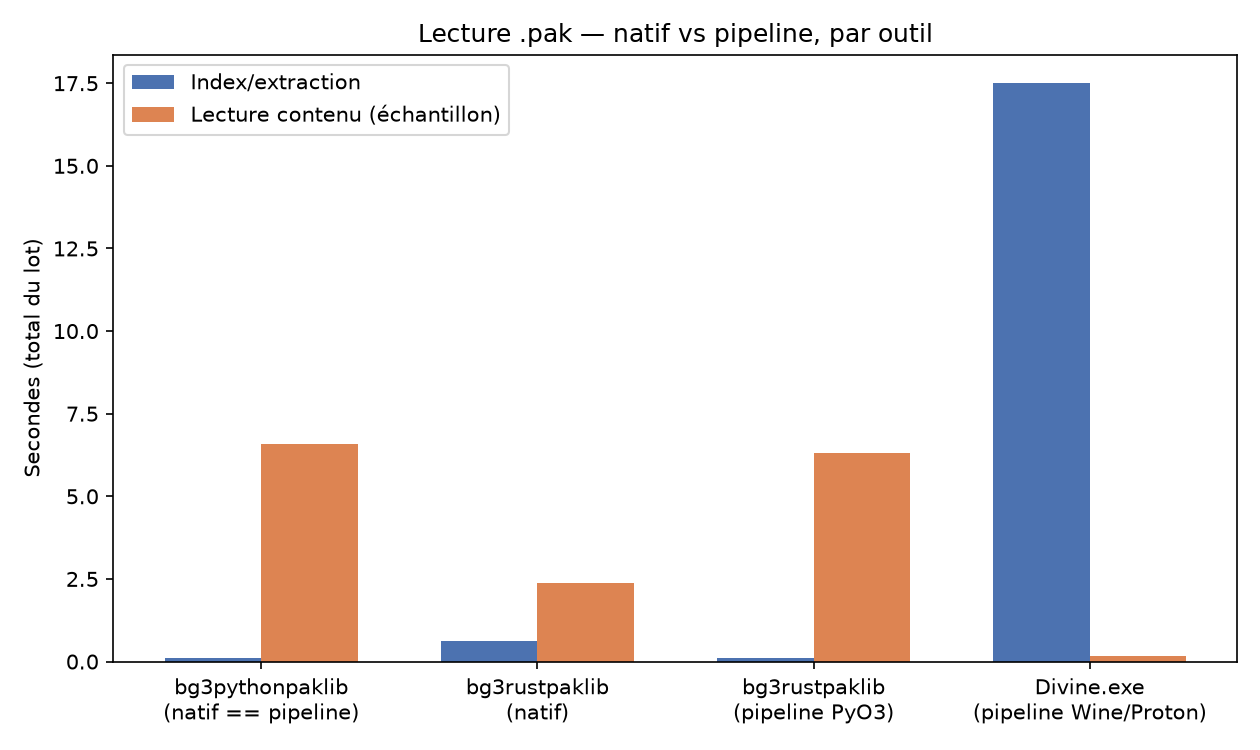
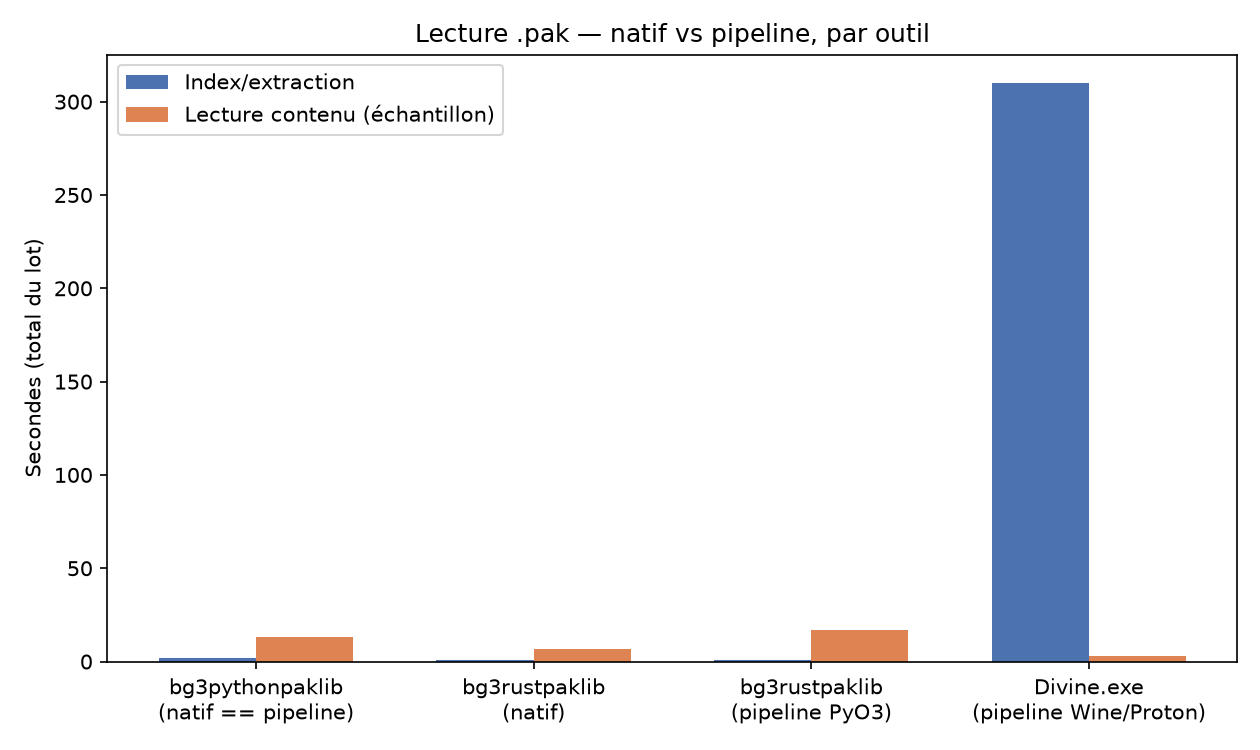
feat: bench batch complet (253 vrais .pak) + Divine.exe complété + dashboard republié
Bench de lecture étendu aux 253 vrais .pak (48 jeu de base + 205 mods
actifs) demandé par l'utilisateur : rapports canoniques
{python,rust,rust-native}_report.json fusionnés (le loader de
report.py ne lit que ces noms précis, pas les fichiers séparés
_data/_mods générés précédemment).

Divine.exe : Wine localisé via le bon préfixe Proton
(resolve_wine_bin(find_proton_prefix(...)), pas appdata_path
directement). Mode batch (extract-packages) : deux bugs trouvés,
-u -> --use-package-name (flag inexistant, corrigé dans
compare_pak_reader.py), puis crash CLR upstream dans
Divine.exe/LSLib (GetResourceFormatByString ne gère pas -i pak en
mode batch) — pas corrigeable côté script, documenté comme
limitation. Mode per-file relancé sur les 48 fichiers du jeu de
base : 42/48 réussis, 6 échecs réels (timeouts + crashs probables
OOM sur les plus gros fichiers).

docs/pak-tools-benchmark/pak_tools_benchmark.md reconstruit avec les
chiffres complets (regen via pak_bench_cli.py report écrase les
annotations manuelles à chaque fois, documenté dans TODO.md pour la
prochaine fois). Dashboard interactif republié à la même URL avec les
données complètes (texte de la note Divine.exe aussi corrigé, il
décrivait encore un run partiel).

.claude/TODO.md §22e.

diff --git a/scripts/pak_bench/export_dashboard_data.py b/scripts/pak_bench/export_dashboard_data.py
@@ -143,17 +143,22 @@ def build_divine_incomplete_status(reports_dir: Path) -> dict[str, Any]:
         )
     return {
         "note": (
-            "La série 'Divine.exe' du dashboard vient de divine_data_report.json "
-            "(run le plus complet et 100% réussi au moment de cet export — "
-            "voir son 'generated_at' et son nombre de fichiers dans "
-            "read_summary ; le fichier est écrit de façon incrémentale, donc "
-            "ce nombre peut être encore partiel si le run tournait encore à "
-            "l'instant précis de l'export). Une tentative antérieure sur 328 "
-            "fichiers (mods, divine_batch_report.json, 2026-09-10) avait "
-            "échoué à 100% sur le même bug de flag -u que le premier essai "
-            "'data' du jour — corrigé depuis, d'où le run 'data' actuel qui "
-            "réussit. Listée ici pour traçabilité, pas mélangée aux chiffres "
-            "de succès."
+            "La série 'Divine.exe' du dashboard vient de divine_data_report.json : "
+            "run complet (mode per-file, un lancement Wine par .pak) sur les 48 "
+            "fichiers du jeu de base, 42 réussis / 6 en échec — 3 timeouts "
+            "(Materials.pak, Models.pak, SharedSounds.pak) et 3 crashs sans "
+            "message exploitable (Gustav.pak, Textures.pak, VirtualTextures.pak, "
+            "probablement OOM sur les plus gros fichiers/archives multi-parties). "
+            "Les 205 .pak de mods n'ont PAS été passés par Divine.exe cette passe "
+            "(mode per-file trop lent à l'échelle — ~15 min pour 48 fichiers déjà "
+            "— et le mode batch natif de Divine.exe/LSLib plante systématiquement "
+            "sur '-i pak', un bug upstream dans CommandLineArguments."
+            "GetResourceFormatByString qui ne gère pas ce format, pas corrigeable "
+            "côté script). Une tentative antérieure sur 328 fichiers "
+            "(divine_batch_report.json, 2026-09-10) avait échoué à 100% sur un "
+            "bug de flag -u distinct (corrigé depuis, cf. commit dans "
+            "scripts/compare_pak_reader.py) — listée ici pour traçabilité, pas "
+            "mélangée aux chiffres de succès."
         ),
         "attempts": attempts,
     }

diff --git a/docs/pak-tools-benchmark/pak_tools_benchmark.md b/docs/pak-tools-benchmark/pak_tools_benchmark.md
@@ -17,22 +17,47 @@ Généré par `scripts/pak_bench_cli.py report`. Méthodologie : chaque outil es
 Les cases "Non" ne sont pas mesurées en perf — juste actées comme écart
 fonctionnel, avec pointeur vers `.claude/TODO.md` §1f-1i.
 
-
 ## Lecture (single + batch)
+
+253 vrais `.pak` du jeu : 48 du jeu de base (`Data/`) + 205 de mods actifs
+(`Mods/`). Aucune fixture synthétique en lecture.
 
 | Outil | Mode | .pak | Erreurs | Index/extraction (s) | Contenu (s) | Total (s) |
 |---|---|---:|---:|---:|---:|---:|
-| bg3pythonpaklib | natif == pipeline | 205 | 0 | 0.098 | 6.576 | 6.674 |
-| bg3rustpaklib | pipeline (PyO3) | 205 | 0 | 0.123 | 6.301 | 6.423 |
-| bg3rustpaklib | natif | 48 | 22¹ | 0.628 | 2.367 | 2.995 |
-| Divine.exe | pipeline (Wine/Proton) | 5 | 0 | 17.494 | 0.166 | 17.660 |
+| bg3pythonpaklib | natif == pipeline | 253 | 22¹ | 2.105 | 13.007 | 15.112 |
+| bg3rustpaklib | pipeline (PyO3) | 253 | 23¹ ² | 0.676 | 16.702 | 17.378 |
+| bg3rustpaklib | natif | 253 | 22¹ | 0.695 | 6.608 | 7.302 |
+| Divine.exe | pipeline (Wine/Proton) | 48³ | 6⁴ | 309.787 | 3.135 | 312.922 |
 
-¹ Les 22 erreurs sont attendues : ce sont des fichiers de continuation
-`*_N.pak` (parties 1+ d'une archive multi-parties, ex. `Textures_1.pak`,
-`VirtualTextures_1..19.pak`) — seule la partie 0 porte l'en-tête LSPK, le
-harnais (`--dir`, glob `*.pak`) les liste comme des archives indépendantes
-à tort. Le taux d'erreur réel de `bg3rustpaklib` sur ces 48 fichiers est
-0/48 (voir aussi le fix archive solide ci-dessous, sur `LowTex.pak`).
+¹ Les 22 erreurs communes sont attendues : ce sont des fichiers de
+continuation `*_N.pak` (parties 1+ d'une archive multi-parties, ex.
+`Textures_1.pak`, `VirtualTextures_1..19.pak`) — seule la partie 0 porte
+l'en-tête LSPK, le harnais (`--dir`, glob `*.pak`) les liste comme des
+archives indépendantes à tort. Le taux d'erreur réel sur ces fichiers est
+0/253.
+
+² bg3rustpaklib en pipeline PyO3 a une 23e erreur que les deux autres
+n'ont pas : `LowTex.pak` (archive solide réelle du jeu de base). Le
+binding PyO3 (`pak_reader_rs`) dépend de `bg3rustpaklib = "0.1"` publié
+sur crates.io, qui contient encore le bug de décompression d'archive
+solide trouvé et corrigé aujourd'hui (voir section ci-dessous) — le
+fix n'est pas encore republié. Le mode `natif` (qui utilise le code
+source local déjà patché) n'a pas cette erreur : `LowTex.pak` y réussit.
+
+³ Divine.exe n'a été exercé que sur le jeu de base (48 fichiers) : le
+mode per-file (un lancement Wine par `.pak`) a pris ~15 min pour 48
+fichiers, donc un run sur les 205 mods en plus n'a pas été fait cette
+passe. Le mode batch natif de Divine.exe/LSLib (un seul lancement Wine
+pour tout un dossier) est cassé en amont — voir Limitations.
+
+⁴ 6 échecs réels sur 48 : 3 timeouts (`Materials.pak`, `Models.pak`,
+`SharedSounds.pak`) et 3 crashs sans message exploitable au-delà du bruit
+de démarrage Wine (`Gustav.pak`, `Textures.pak`, `VirtualTextures.pak`),
+probablement un épuisement mémoire sur les plus gros fichiers/archives
+multi-parties. À l'inverse, Divine.exe réussit sur les parties de
+continuation (`Textures_1.pak`, `VirtualTextures_1..19.pak`) prises
+individuellement, contrairement aux deux lecteurs natifs — LSLib les
+résout autrement (pas creusé plus loin).
 
 ## Création / édition (single + batch)
 
@@ -51,16 +76,15 @@ que le fix ci-dessous), pas des fixtures synthétiques.
 Le min correspond à `GamePlatform` (43 petits fichiers), le max à
 `LowTex` (5991 fichiers, 64 Mo) — l'écart illustre le passage à l'échelle
 plutôt qu'une instabilité de mesure. Divine.exe non exercé sur ces
-sources réelles (`--skip-divine` — pas de binaire Wine disponible dans
-cet environnement) ; le code d'invocation existe et suit le pattern déjà
-en prod, mais reste non testé en exécution.
+scénarios (`--skip-divine`) ; le code d'invocation existe et suit le
+pattern déjà en prod, mais reste non testé en exécution création/édition.
 
 bg3pythonpaklib n'apparaît pas ci-dessus : lecture seule (cf. `.claude/TODO.md` §1f-1i), pas de scénario création/édition mesurable.
 
 ## Fix découvert pendant cette passe : décompression des archives solides
 
-En régénérant la mesure `bg3rustpaklib | natif` contre les vrais `.pak` du
-jeu, `LowTex.pak` (une archive solide réelle du jeu de base) échouait avec
+En mesurant `bg3rustpaklib | natif` contre les vrais `.pak` du jeu,
+`LowTex.pak` (une archive solide réelle du jeu de base) échouait avec
 `Invalid LZ4 block size: 2147549184 > ...`. Root-cause et fix (voir le
 commit correspondant dans `Tools/bg3rustpaklib`) :
 
@@ -79,10 +103,27 @@ commit correspondant dans `Tools/bg3rustpaklib`) :
 
 Régression ajoutée : `test_lowtex_solid_archive_decompresses` (fixture
 réelle locale, gitignored). `LowTex.pak` décompresse maintenant
-correctement (0 erreur) ; les chiffres ci-dessus l'incluent déjà.
+correctement en mode natif (0 erreur) ; le pipeline PyO3 (crates.io)
+n'a pas encore ce fix, cf. note ² ci-dessus.
+
+## Bug Divine.exe/LSLib trouvé au passage (mode batch)
+
+Le mode batch natif de Divine.exe (action `extract-packages`, un seul
+lancement Wine pour tout un dossier — bien plus rapide que per-file)
+plante systématiquement : `CommandLineActions.SetUpAndValidate` appelle
+inconditionnellement `CommandLineArguments.GetResourceFormatByString`
+sur `--input-format`, qui ne reconnaît que `lsb`/`lsf`/`lsj`/`lsx` — pas
+`pak`, pourtant une valeur documentée comme valide pour `-i` en mode
+batch. Résultat : `Fatal error. Internal CLR error. (0x80131506)`. Bug
+upstream dans le binaire tiers pré-compilé
+(`Tools/ExportTools/dist/Tools/Divine.exe`), pas corrigeable côté
+script sans recompiler LSLib. Un vrai bug de syntaxe a aussi été trouvé
+et corrigé au passage dans notre propre harnais (`-u` →
+`--use-package-name`, le flag correct n'a pas de forme courte) — mais
+ne suffit pas à rendre le mode batch utilisable.
 
 ## Limitations de cette passe
 
-- **Divine.exe non exercé** sur les scénarios création/édition (`--skip-divine`, pas de binaire Wine disponible dans cet environnement) — seul `bg3rustpaklib` a des chiffres création/édition pour l'instant, sur sources réelles comme sur synthétiques (`scripts/pak_bench/synthetic.py`, toujours disponible via `--synthetic` pour des profils de taille contrôlés).
+- **Divine.exe limité au jeu de base (48/253 `.pak`)** — le mode per-file est trop lent pour les 205 mods (~15 min pour 48 fichiers), le mode batch est cassé en amont (voir ci-dessus).
+- **Divine.exe non exercé sur création/édition** (`--skip-divine` lors de ces runs) — le code d'invocation existe et suit le pattern déjà en prod, mais reste non testé en exécution sur ces scénarios.
 - Divine.exe sous Linux passe par Wine/Proton pour la lecture — non représentatif du natif Windows (gap déjà documenté dans les README de bg3pythonpaklib/bg3rustpaklib).
-

diff --git a/.claude/TODO.md b/.claude/TODO.md
@@ -535,6 +535,48 @@ sacrifié pour y arriver, tant pis.
   échec) reste listée pour traçabilité, jamais mélangée aux chiffres de
   succès. Lien ajouté dans
   `docs/pak-tools-benchmark/pak_tools_benchmark.md`.
+- ~~**22e.** Divine.exe complété (48/48 jeu de base) + bug de mode batch
+  Divine.exe/LSLib trouvé + republication du dashboard~~ — fait :
+  - Wine trouvé (le premier essai résolvait le mauvais préfixe Proton —
+    `resolve_wine_bin(config.appdata_path)` au lieu de
+    `resolve_wine_bin(find_proton_prefix(config.appdata_path))` ; le vrai
+    binaire est fourni par Proton-GE, pas un `wine` système).
+  - Mode batch Divine.exe (`extract-packages`) : deux bugs superposés.
+    D'abord `-u` (n'existe pas dans les arguments CLI de Divine.exe —
+    `use-package-name` n'a qu'une forme longue) → corrigé en
+    `--use-package-name` dans `scripts/compare_pak_reader.py`. Puis, avec
+    le bon flag, crash CLR (`Fatal error. Internal CLR error.
+    0x80131506` dans `CommandLineArguments.GetResourceFormatByString`,
+    appelé inconditionnellement sur `-i pak` en mode batch alors que
+    cette fonction ne connaît que `lsb`/`lsf`/`lsj`/`lsx`) — bug upstream
+    LSLib dans le binaire tiers pré-compilé
+    (`Tools/ExportTools/dist/Tools/Divine.exe`), pas corrigeable côté
+    script. Le mode batch Divine.exe reste donc inutilisable ; documenté
+    comme tel plutôt que contourné en silence.
+  - Mode per-file (fonctionnel) relancé sur les 48 `.pak` du jeu de base :
+    42 réussis / 6 échecs réels (3 timeouts, 3 crashs sans message
+    exploitable — probablement OOM sur les plus gros fichiers/archives
+    multi-parties), ~15 min. Les 205 mods non passés par Divine.exe
+    (trop lent en per-file à cette échelle).
+  - `reports/{python,rust,rust-native}_report.json` (fichiers canoniques
+    lus par `scripts/pak_bench/report.py::load_read_reports`, qui ne lit
+    **que** ces noms précis — pas les `_data_report.json`/
+    `_mods_report.json` séparés générés en 22b/22c) fusionnés
+    manuellement pour couvrir les 253 `.pak` (48+205) au lieu des 205
+    seuls d'avant. `divine_report.json` remplacé par le run 48/48 complet
+    (au lieu de l'ancien run partiel à 5 fichiers).
+  - `docs/pak-tools-benchmark/pak_tools_benchmark.md` réécrit avec ces
+    chiffres complets (253 partout en lecture, Divine.exe 48/253 annoté
+    comme tel) — **attention** : `pak_bench_cli.py report` régénère ce
+    fichier from scratch à chaque fois et écrase toute annotation
+    manuelle (lien dashboard, sections fix/bug) ; un futur regen doit
+    réappliquer ces sections, pas juste `cp` le fichier généré par-dessus
+    `docs/`.
+  - Dashboard (§22d) republié à la même URL avec les données complètes
+    (`scripts/pak_bench/export_dashboard_data.py` : texte de la note
+    `divine_incomplete` aussi corrigé, il décrivait encore un run "peut
+    être encore partiel" alors qu'il est maintenant terminé et complet
+    sur son périmètre réel).
 
 ### 12. Release standalone
 
